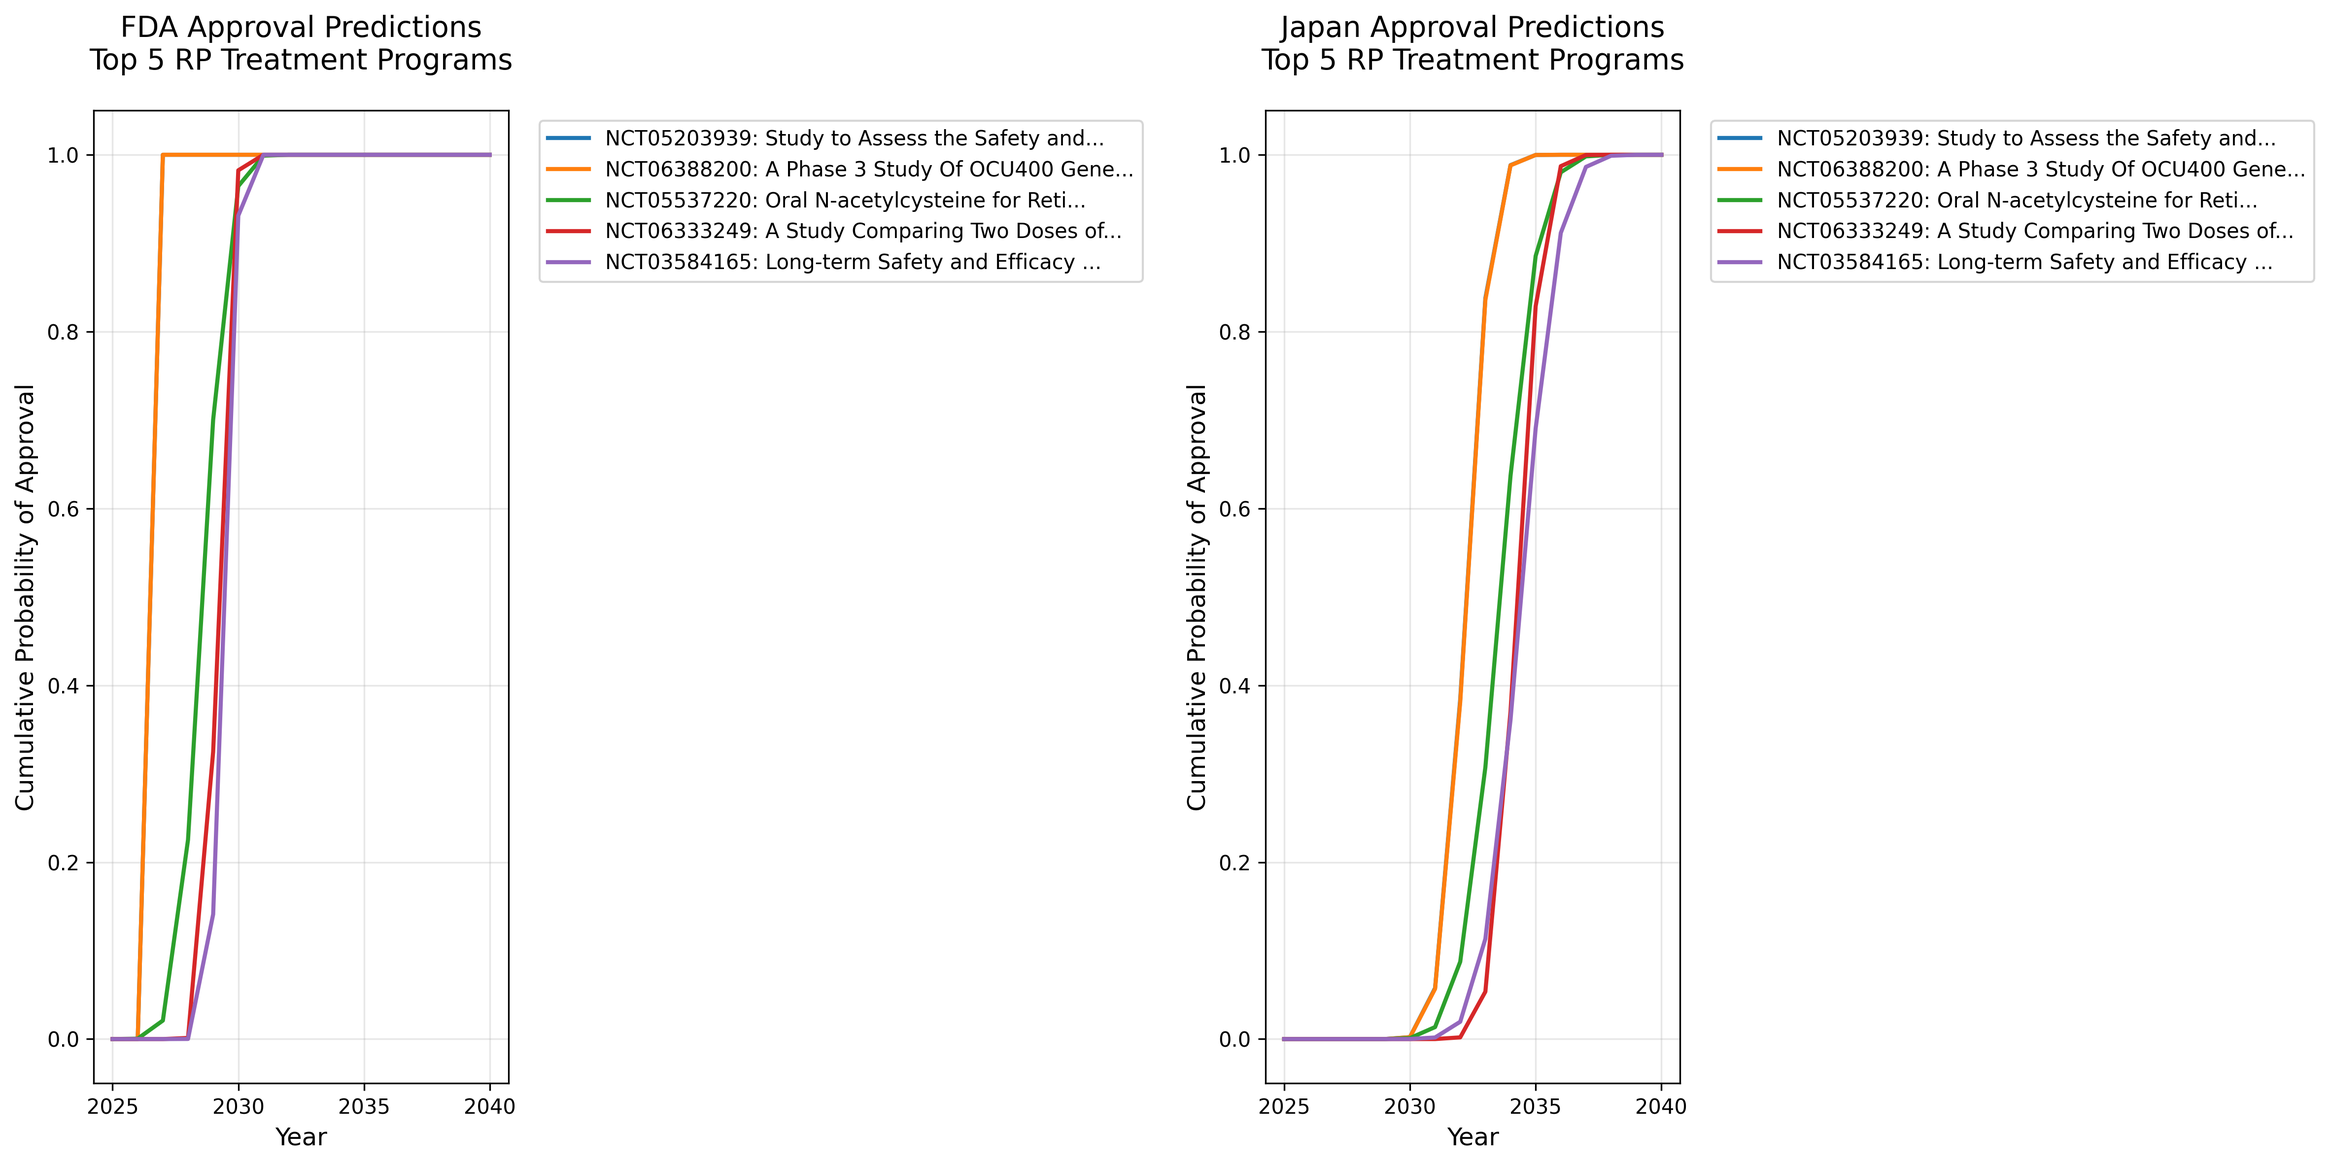
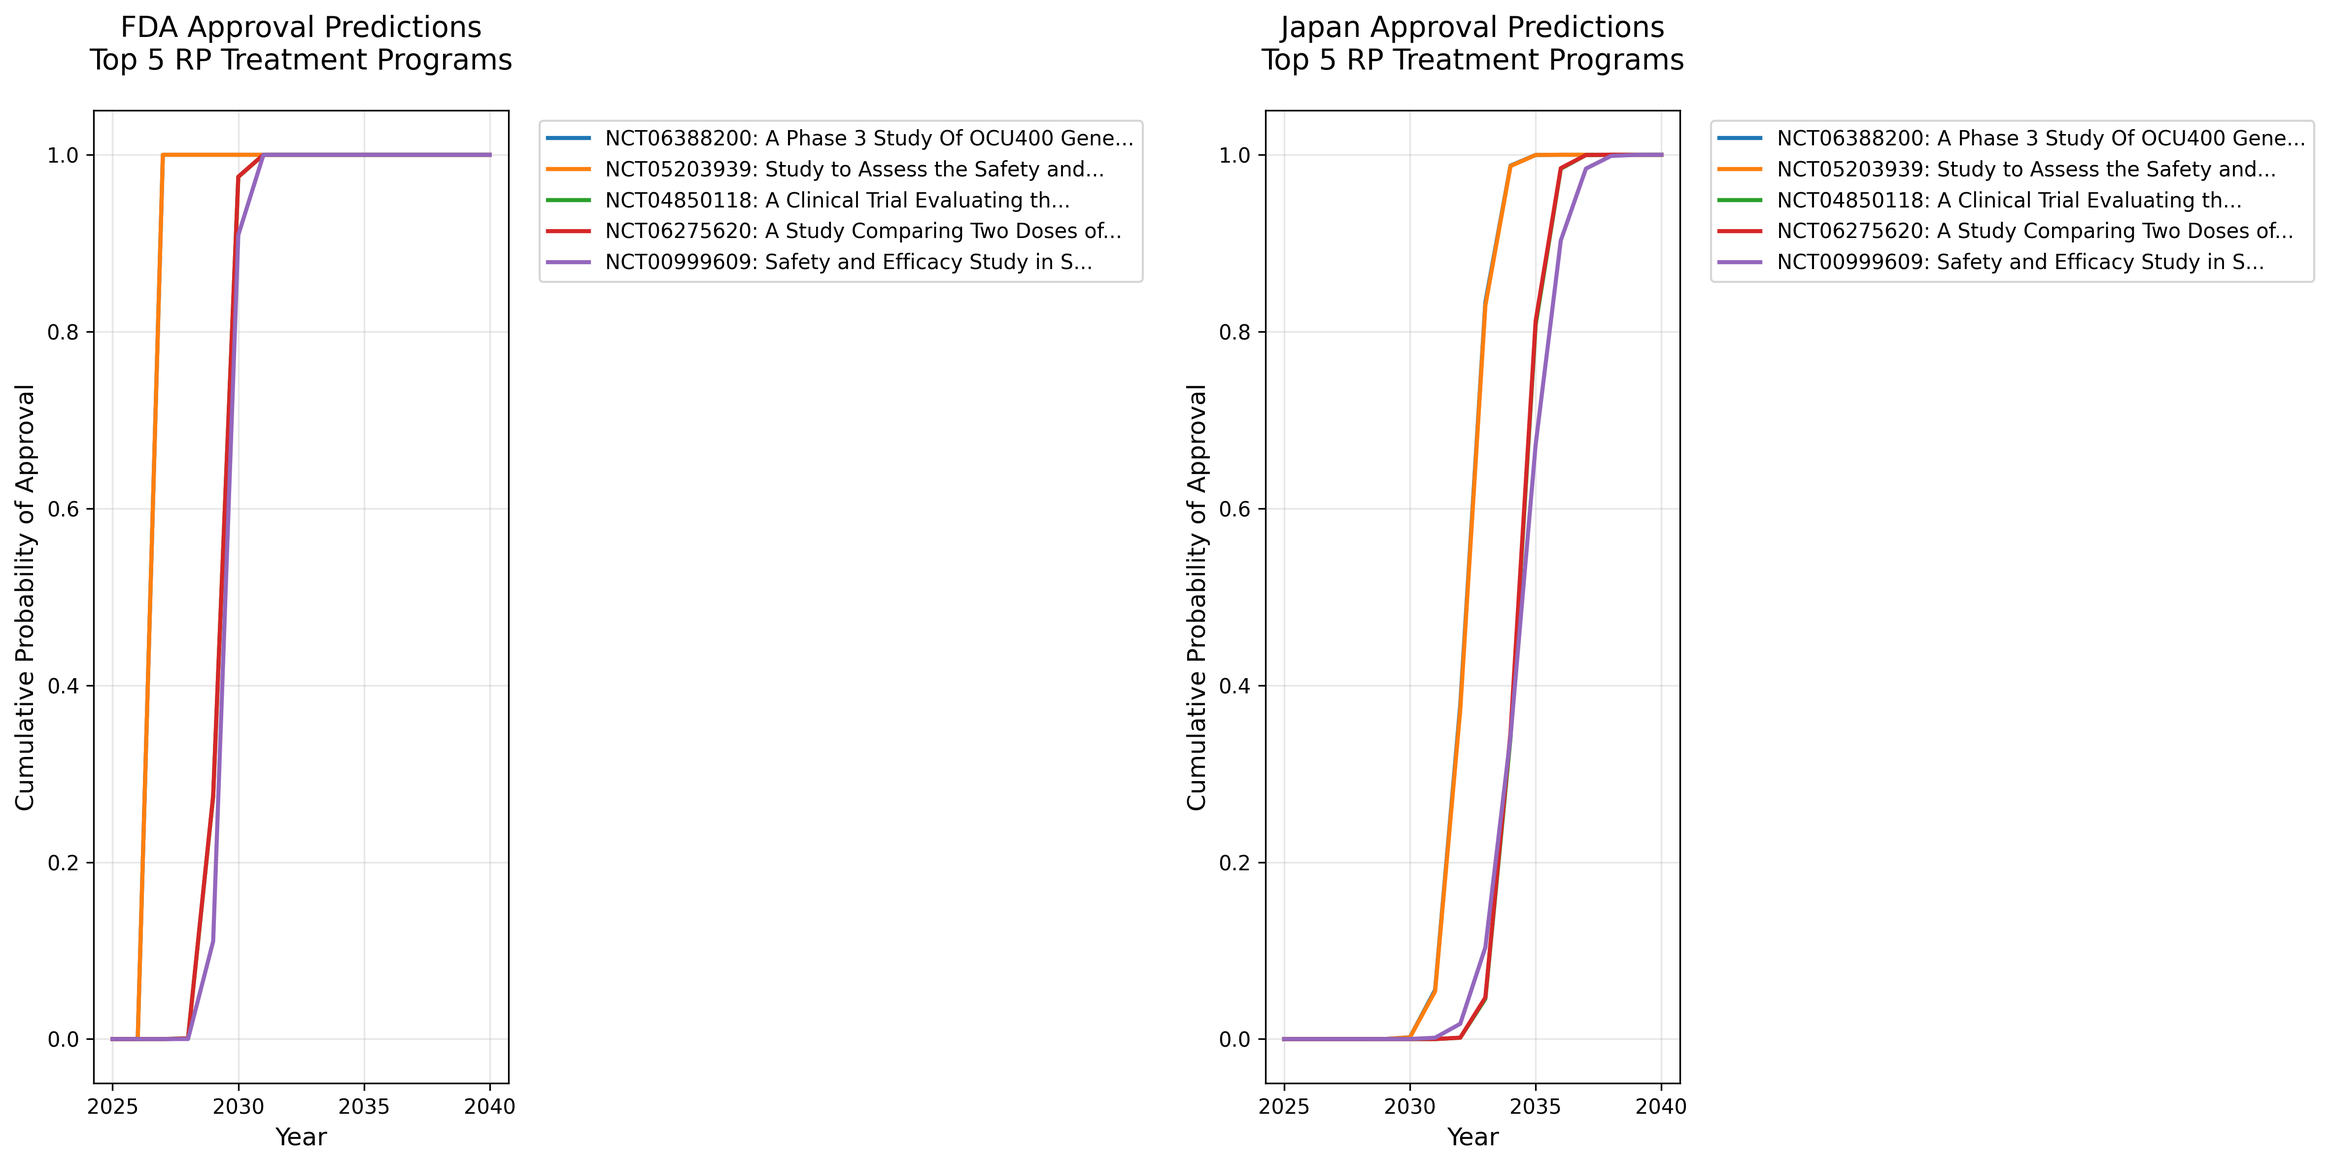
deploy: cd72f3506d94e4b0c0cafba083538b5624c01ad8

diff --git a/public/index_old.html b/public/index_old.html
@@ -121,7 +121,7 @@
         </nav>
         
         <h1>網膜色素変性症（RP）治療開発ロードマップ</h1>
-<p>生成日時: 2025年10月05日 16:33</p>
+<p>生成日時: 2025年10月25日 09:55</p>
 <h2>エグゼクティブサマリー</h2>
 <p>本レポートは、網膜色素変性症（Retinitis Pigmentosa, RP）の治療法開発状況を定量的に分析し、効果的な治療法がいつ頃利用可能になるかを予測したものです。</p>
 <h3>主要な発見（米国FDA承認基準）</h3>
@@ -147,7 +147,7 @@
 <h3>文献データ</h3>
 <ul>
 <li><strong>データソース</strong>: PubMed</li>
-<li><strong>総論文数</strong>: 826件</li>
+<li><strong>総論文数</strong>: 830件</li>
 <li><strong>検索クエリ</strong>: "retinitis pigmentosa" AND ("gene therapy" OR "cell therapy")</li>
 <li><strong>期間</strong>: 1993-2025年</li>
 </ul>
@@ -162,7 +162,7 @@
 <tbody>
 <tr>
 <td>2025</td>
-<td data-label="論文数">63</td>
+<td data-label="論文数">67</td>
 </tr>
 <tr>
 <td>2024</td>
@@ -205,16 +205,6 @@
 </thead>
 <tbody>
 <tr>
-<td>NCT05203939</td>
-<td data-label="治療法名">Study to Assess the Safety and Efficacy ...</td>
-<td data-label="フェーズ">PHASE1, PHASE2</td>
-<td data-label="スポンサー">Ocugen</td>
-<td data-label="成功率">100.0%</td>
-<td data-label="FDA承認予測（中央値）">2027年</td>
-<td data-label="日本承認予測（中央値）">2032年</td>
-<td data-label="90%信頼区間（FDA）">[2027, 2027]</td>
-</tr>
-<tr>
 <td>NCT06388200</td>
 <td data-label="治療法名">A Phase 3 Study Of OCU400 Gene Therapy f...</td>
 <td data-label="フェーズ">PHASE3</td>
@@ -225,14 +215,44 @@
 <td data-label="90%信頼区間（FDA）">[2027, 2027]</td>
 </tr>
 <tr>
-<td>NCT05537220</td>
-<td data-label="治療法名">Oral N-acetylcysteine for Retinitis Pigm...</td>
-<td data-label="フェーズ">PHASE3</td>
-<td data-label="スポンサー">Johns Hopkins University</td>
-<td data-label="成功率">71.2%</td>
-<td data-label="FDA承認予測（中央値）">2028年</td>
+<td>NCT05203939</td>
+<td data-label="治療法名">Study to Assess the Safety and Efficacy ...</td>
+<td data-label="フェーズ">PHASE1, PHASE2</td>
+<td data-label="スポンサー">Ocugen</td>
+<td data-label="成功率">100.0%</td>
+<td data-label="FDA承認予測（中央値）">2027年</td>
+<td data-label="日本承認予測（中央値）">2032年</td>
+<td data-label="90%信頼区間（FDA）">[2027, 2027]</td>
+</tr>
+<tr>
+<td>NCT04850118</td>
+<td data-label="治療法名">A Clinical Trial Evaluating the Safety a...</td>
+<td data-label="フェーズ">PHASE2, PHASE3</td>
+<td data-label="スポンサー">Beacon Therapeutics</td>
+<td data-label="成功率">100.0%</td>
+<td data-label="FDA承認予測（中央値）">2029年</td>
 <td data-label="日本承認予測（中央値）">2034年</td>
-<td data-label="90%信頼区間（FDA）">[2028, 2030]</td>
+<td data-label="90%信頼区間（FDA）">[2029, 2030]</td>
+</tr>
+<tr>
+<td>NCT06275620</td>
+<td data-label="治療法名">A Study Comparing Two Doses of AGTC-501 ...</td>
+<td data-label="フェーズ">PHASE2</td>
+<td data-label="スポンサー">Beacon Therapeutics</td>
+<td data-label="成功率">100.0%</td>
+<td data-label="FDA承認予測（中央値）">2029年</td>
+<td data-label="日本承認予測（中央値）">2034年</td>
+<td data-label="90%信頼区間（FDA）">[2029, 2030]</td>
+</tr>
+<tr>
+<td>NCT00999609</td>
+<td data-label="治療法名">Safety and Efficacy Study in Subjects Wi...</td>
+<td data-label="フェーズ">PHASE3</td>
+<td data-label="スポンサー">Spark Therapeutics, Inc.</td>
+<td data-label="成功率">71.4%</td>
+<td data-label="FDA承認予測（中央値）">2029年</td>
+<td data-label="日本承認予測（中央値）">2034年</td>
+<td data-label="90%信頼区間（FDA）">[2029, 2030]</td>
 </tr>
 <tr>
 <td>NCT06333249</td>
@@ -249,60 +269,40 @@
 <td data-label="治療法名">Long-term Safety and Efficacy Follow-up ...</td>
 <td data-label="フェーズ">PHASE3</td>
 <td data-label="スポンサー">NightstaRx Ltd, a Biogen Company</td>
-<td data-label="成功率">71.9%</td>
-<td data-label="FDA承認予測（中央値）">2029年</td>
-<td data-label="日本承認予測（中央値）">2034年</td>
-<td data-label="90%信頼区間（FDA）">[2029, 2030]</td>
+<td data-label="成功率">71.2%</td>
+<td data-label="FDA承認予測（中央値）">2031年</td>
+<td data-label="日本承認予測（中央値）">2036年</td>
+<td data-label="90%信頼区間（FDA）">[2031, 2032]</td>
 </tr>
 <tr>
-<td>NCT06275620</td>
-<td data-label="治療法名">A Study Comparing Two Doses of AGTC-501 ...</td>
-<td data-label="フェーズ">PHASE2</td>
-<td data-label="スポンサー">Beacon Therapeutics</td>
-<td data-label="成功率">100.0%</td>
-<td data-label="FDA承認予測（中央値）">2029年</td>
-<td data-label="日本承認予測（中央値）">2034年</td>
-<td data-label="90%信頼区間（FDA）">[2029, 2030]</td>
-</tr>
-<tr>
-<td>NCT04850118</td>
-<td data-label="治療法名">A Clinical Trial Evaluating the Safety a...</td>
-<td data-label="フェーズ">PHASE2, PHASE3</td>
-<td data-label="スポンサー">Beacon Therapeutics</td>
-<td data-label="成功率">100.0%</td>
-<td data-label="FDA承認予測（中央値）">2029年</td>
-<td data-label="日本承認予測（中央値）">2034年</td>
-<td data-label="90%信頼区間（FDA）">[2029, 2030]</td>
+<td>NCT05537220</td>
+<td data-label="治療法名">Oral N-acetylcysteine for Retinitis Pigm...</td>
+<td data-label="フェーズ">PHASE3</td>
+<td data-label="スポンサー">Johns Hopkins University</td>
+<td data-label="成功率">70.3%</td>
+<td data-label="FDA承認予測（中央値）">2031年</td>
+<td data-label="日本承認予測（中央値）">2036年</td>
+<td data-label="90%信頼区間（FDA）">[2031, 2032]</td>
 </tr>
 <tr>
 <td>NCT07082855</td>
 <td data-label="治療法名">A Multicenter, Randomized, Double-Blind,...</td>
 <td data-label="フェーズ">PHASE3</td>
 <td data-label="スポンサー">Zhongshan Ophthalmic Center, Sun Yat-sen University</td>
-<td data-label="成功率">71.4%</td>
-<td data-label="FDA承認予測（中央値）">2030年</td>
-<td data-label="日本承認予測（中央値）">2035年</td>
-<td data-label="90%信頼区間（FDA）">[2029, 2031]</td>
+<td data-label="成功率">71.7%</td>
+<td data-label="FDA承認予測（中央値）">2031年</td>
+<td data-label="日本承認予測（中央値）">2036年</td>
+<td data-label="90%信頼区間（FDA）">[2031, 2032]</td>
 </tr>
 <tr>
-<td>NCT02065011</td>
-<td data-label="治療法名">A Study to Determine the Long-Term Safet...</td>
+<td>NCT06627179</td>
+<td data-label="治療法名">Study to Evaluate Ultevursen in Subjects...</td>
 <td data-label="フェーズ">PHASE2</td>
-<td data-label="スポンサー">Sanofi</td>
-<td data-label="成功率">55.3%</td>
-<td data-label="FDA承認予測（中央値）">2030年</td>
-<td data-label="日本承認予測（中央値）">2035年</td>
-<td data-label="90%信頼区間（FDA）">[2029, 2031]</td>
-</tr>
-<tr>
-<td>NCT00999609</td>
-<td data-label="治療法名">Safety and Efficacy Study in Subjects Wi...</td>
-<td data-label="フェーズ">PHASE3</td>
-<td data-label="スポンサー">Spark Therapeutics, Inc.</td>
-<td data-label="成功率">70.6%</td>
-<td data-label="FDA承認予測（中央値）">2030年</td>
-<td data-label="日本承認予測（中央値）">2035年</td>
-<td data-label="90%信頼区間（FDA）">[2029, 2031]</td>
+<td data-label="スポンサー">Laboratoires Thea</td>
+<td data-label="成功率">50.7%</td>
+<td data-label="FDA承認予測（中央値）">2034年</td>
+<td data-label="日本承認予測（中央値）">2039年</td>
+<td data-label="90%信頼区間（FDA）">[2034, 2035]</td>
 </tr>
 </tbody>
 </table>
@@ -320,13 +320,6 @@
 </thead>
 <tbody>
 <tr>
-<td>NCT05203939</td>
-<td data-label="FDA承認予測">2027年</td>
-<td data-label="日本承認予測（中央値）"><strong>2032年</strong></td>
-<td data-label="日本承認90%信頼区間">[2031, 2033]</td>
-<td data-label="遅延期間（中央値）">+5.0年</td>
-</tr>
-<tr>
 <td>NCT06388200</td>
 <td data-label="FDA承認予測">2027年</td>
 <td data-label="日本承認予測（中央値）"><strong>2032年</strong></td>
@@ -334,10 +327,31 @@
 <td data-label="遅延期間（中央値）">+5.0年</td>
 </tr>
 <tr>
-<td>NCT05537220</td>
-<td data-label="FDA承認予測">2028年</td>
+<td>NCT05203939</td>
+<td data-label="FDA承認予測">2027年</td>
+<td data-label="日本承認予測（中央値）"><strong>2032年</strong></td>
+<td data-label="日本承認90%信頼区間">[2031, 2033]</td>
+<td data-label="遅延期間（中央値）">+5.0年</td>
+</tr>
+<tr>
+<td>NCT04850118</td>
+<td data-label="FDA承認予測">2029年</td>
 <td data-label="日本承認予測（中央値）"><strong>2034年</strong></td>
-<td data-label="日本承認90%信頼区間">[2032, 2035]</td>
+<td data-label="日本承認90%信頼区間">[2033, 2035]</td>
+<td data-label="遅延期間（中央値）">+5.0年</td>
+</tr>
+<tr>
+<td>NCT06275620</td>
+<td data-label="FDA承認予測">2029年</td>
+<td data-label="日本承認予測（中央値）"><strong>2034年</strong></td>
+<td data-label="日本承認90%信頼区間">[2033, 2035]</td>
+<td data-label="遅延期間（中央値）">+5.0年</td>
+</tr>
+<tr>
+<td>NCT00999609</td>
+<td data-label="FDA承認予測">2029年</td>
+<td data-label="日本承認予測（中央値）"><strong>2034年</strong></td>
+<td data-label="日本承認90%信頼区間">[2033, 2036]</td>
 <td data-label="遅延期間（中央値）">+5.0年</td>
 </tr>
 <tr>
@@ -349,9 +363,30 @@
 </tr>
 <tr>
 <td>NCT03584165</td>
-<td data-label="FDA承認予測">2029年</td>
-<td data-label="日本承認予測（中央値）"><strong>2034年</strong></td>
-<td data-label="日本承認90%信頼区間">[2033, 2036]</td>
+<td data-label="FDA承認予測">2031年</td>
+<td data-label="日本承認予測（中央値）"><strong>2036年</strong></td>
+<td data-label="日本承認90%信頼区間">[2035, 2038]</td>
+<td data-label="遅延期間（中央値）">+5.0年</td>
+</tr>
+<tr>
+<td>NCT05537220</td>
+<td data-label="FDA承認予測">2031年</td>
+<td data-label="日本承認予測（中央値）"><strong>2036年</strong></td>
+<td data-label="日本承認90%信頼区間">[2035, 2038]</td>
+<td data-label="遅延期間（中央値）">+5.0年</td>
+</tr>
+<tr>
+<td>NCT07082855</td>
+<td data-label="FDA承認予測">2031年</td>
+<td data-label="日本承認予測（中央値）"><strong>2036年</strong></td>
+<td data-label="日本承認90%信頼区間">[2035, 2038]</td>
+<td data-label="遅延期間（中央値）">+5.0年</td>
+</tr>
+<tr>
+<td>NCT06627179</td>
+<td data-label="FDA承認予測">2034年</td>
+<td data-label="日本承認予測（中央値）"><strong>2039年</strong></td>
+<td data-label="日本承認90%信頼区間">[2038, 2041]</td>
 <td data-label="遅延期間（中央値）">+5.0年</td>
 </tr>
 </tbody>
@@ -381,12 +416,11 @@
 <p><img alt="トルネード図" src="images/tornado.png"/></p>
 <h3>主要な影響要因</h3>
 <ul>
+<li><strong>PHASE1 duration</strong> (increase 20%): +0.8年の影響</li>
 <li><strong>PHASE2 duration</strong> (increase 20%): +0.8年の影響</li>
-<li><strong>PHASE1 duration</strong> (increase 20%): +0.6年の影響</li>
-<li><strong>PHASE3 duration</strong> (increase 20%): +0.6年の影響</li>
-<li><strong>BLA MAA submission</strong> (increase 20%): +0.4年の影響</li>
-<li><strong>PHASE2 success rate</strong> (decrease 20%): +0.4年の影響</li>
-<li><strong>regulatory review</strong> (increase 20%): +0.4年の影響</li>
+<li><strong>PHASE3 duration</strong> (increase 20%): +0.8年の影響</li>
+<li><strong>regulatory review</strong> (increase 20%): +0.8年の影響</li>
+<li><strong>BLA MAA submission</strong> (increase 20%): +0.8年の影響</li>
 </ul>
 <h2>4. 予測の可視化</h2>
 <h3>累積承認確率</h3>

diff --git a/content/main/index.md b/content/main/index.md
@@ -1,6 +1,6 @@
 # 網膜色素変性症（RP）治療開発ロードマップ
 
-生成日時: 2025年10月05日 16:33
+生成日時: 2025年10月25日 09:55
 
 ## エグゼクティブサマリー
 
@@ -29,14 +29,14 @@
 
 ### 文献データ
 - **データソース**: PubMed
-- **総論文数**: 826件
+- **総論文数**: 830件
 - **検索クエリ**: "retinitis pigmentosa" AND ("gene therapy" OR "cell therapy")
 - **期間**: 1993-2025年
 
 #### 年別論文数（直近5年）
 | 年 | 論文数 |
 |---|--------|
-| 2025 | 63 |
+| 2025 | 67 |
 | 2024 | 63 |
 | 2023 | 99 |
 | 2022 | 67 |
@@ -54,16 +54,16 @@
 
 | 試験ID | 治療法名 | フェーズ | スポンサー | 成功率 | FDA承認予測（中央値） | 日本承認予測（中央値） | 90%信頼区間（FDA） |
 |--------|----------|----------|------------|--------|---------------------|---------------------|------------------|
-| NCT05203939 | Study to Assess the Safety and Efficacy ... | PHASE1, PHASE2 | Ocugen | 100.0% | 2027年 | 2032年 | [2027, 2027] |
 | NCT06388200 | A Phase 3 Study Of OCU400 Gene Therapy f... | PHASE3 | Ocugen | 100.0% | 2027年 | 2032年 | [2027, 2027] |
-| NCT05537220 | Oral N-acetylcysteine for Retinitis Pigm... | PHASE3 | Johns Hopkins University | 71.2% | 2028年 | 2034年 | [2028, 2030] |
-| NCT06333249 | A Study Comparing Two Doses of AGTC-501 ... | PHASE2 | Beacon Therapeutics | 100.0% | 2029年 | 2034年 | [2029, 2030] |
-| NCT03584165 | Long-term Safety and Efficacy Follow-up ... | PHASE3 | NightstaRx Ltd, a Biogen Company | 71.9% | 2029年 | 2034年 | [2029, 2030] |
-| NCT06275620 | A Study Comparing Two Doses of AGTC-501 ... | PHASE2 | Beacon Therapeutics | 100.0% | 2029年 | 2034年 | [2029, 2030] |
+| NCT05203939 | Study to Assess the Safety and Efficacy ... | PHASE1, PHASE2 | Ocugen | 100.0% | 2027年 | 2032年 | [2027, 2027] |
 | NCT04850118 | A Clinical Trial Evaluating the Safety a... | PHASE2, PHASE3 | Beacon Therapeutics | 100.0% | 2029年 | 2034年 | [2029, 2030] |
-| NCT07082855 | A Multicenter, Randomized, Double-Blind,... | PHASE3 | Zhongshan Ophthalmic Center, Sun Yat-sen University | 71.4% | 2030年 | 2035年 | [2029, 2031] |
-| NCT02065011 | A Study to Determine the Long-Term Safet... | PHASE2 | Sanofi | 55.3% | 2030年 | 2035年 | [2029, 2031] |
-| NCT00999609 | Safety and Efficacy Study in Subjects Wi... | PHASE3 | Spark Therapeutics, Inc. | 70.6% | 2030年 | 2035年 | [2029, 2031] |
+| NCT06275620 | A Study Comparing Two Doses of AGTC-501 ... | PHASE2 | Beacon Therapeutics | 100.0% | 2029年 | 2034年 | [2029, 2030] |
+| NCT00999609 | Safety and Efficacy Study in Subjects Wi... | PHASE3 | Spark Therapeutics, Inc. | 71.4% | 2029年 | 2034年 | [2029, 2030] |
+| NCT06333249 | A Study Comparing Two Doses of AGTC-501 ... | PHASE2 | Beacon Therapeutics | 100.0% | 2029年 | 2034年 | [2029, 2030] |
+| NCT03584165 | Long-term Safety and Efficacy Follow-up ... | PHASE3 | NightstaRx Ltd, a Biogen Company | 71.2% | 2031年 | 2036年 | [2031, 2032] |
+| NCT05537220 | Oral N-acetylcysteine for Retinitis Pigm... | PHASE3 | Johns Hopkins University | 70.3% | 2031年 | 2036年 | [2031, 2032] |
+| NCT07082855 | A Multicenter, Randomized, Double-Blind,... | PHASE3 | Zhongshan Ophthalmic Center, Sun Yat-sen University | 71.7% | 2031年 | 2036年 | [2031, 2032] |
+| NCT06627179 | Study to Evaluate Ultevursen in Subjects... | PHASE2 | Laboratoires Thea | 50.7% | 2034年 | 2039年 | [2034, 2035] |
 
 
 ### 日本での承認予測
@@ -72,11 +72,16 @@
 
 | 治療法 | FDA承認予測 | 日本承認予測（中央値） | 日本承認90%信頼区間 | 遅延期間（中央値） |
 |--------|------------|---------------------|-------------------|---------------------|
-| NCT05203939 | 2027年 | **2032年** | [2031, 2033] | +5.0年 |
 | NCT06388200 | 2027年 | **2032年** | [2031, 2033] | +5.0年 |
-| NCT05537220 | 2028年 | **2034年** | [2032, 2035] | +5.0年 |
+| NCT05203939 | 2027年 | **2032年** | [2031, 2033] | +5.0年 |
+| NCT04850118 | 2029年 | **2034年** | [2033, 2035] | +5.0年 |
+| NCT06275620 | 2029年 | **2034年** | [2033, 2035] | +5.0年 |
+| NCT00999609 | 2029年 | **2034年** | [2033, 2036] | +5.0年 |
 | NCT06333249 | 2029年 | **2034年** | [2033, 2035] | +5.0年 |
-| NCT03584165 | 2029年 | **2034年** | [2033, 2036] | +5.0年 |
+| NCT03584165 | 2031年 | **2036年** | [2035, 2038] | +5.0年 |
+| NCT05537220 | 2031年 | **2036年** | [2035, 2038] | +5.0年 |
+| NCT07082855 | 2031年 | **2036年** | [2035, 2038] | +5.0年 |
+| NCT06627179 | 2034年 | **2039年** | [2038, 2041] | +5.0年 |
 
 
 詳細は[地域別承認予測タイムライン](regional_approval_timeline.html)をご覧ください。
@@ -105,12 +110,11 @@
 ![トルネード図](images/tornado.png)
 
 ### 主要な影響要因
+- **PHASE1 duration** (increase 20%): +0.8年の影響
 - **PHASE2 duration** (increase 20%): +0.8年の影響
-- **PHASE1 duration** (increase 20%): +0.6年の影響
-- **PHASE3 duration** (increase 20%): +0.6年の影響
-- **BLA MAA submission** (increase 20%): +0.4年の影響
-- **PHASE2 success rate** (decrease 20%): +0.4年の影響
-- **regulatory review** (increase 20%): +0.4年の影響
+- **PHASE3 duration** (increase 20%): +0.8年の影響
+- **regulatory review** (increase 20%): +0.8年の影響
+- **BLA MAA submission** (increase 20%): +0.8年の影響
 
 
 ## 4. 予測の可視化
